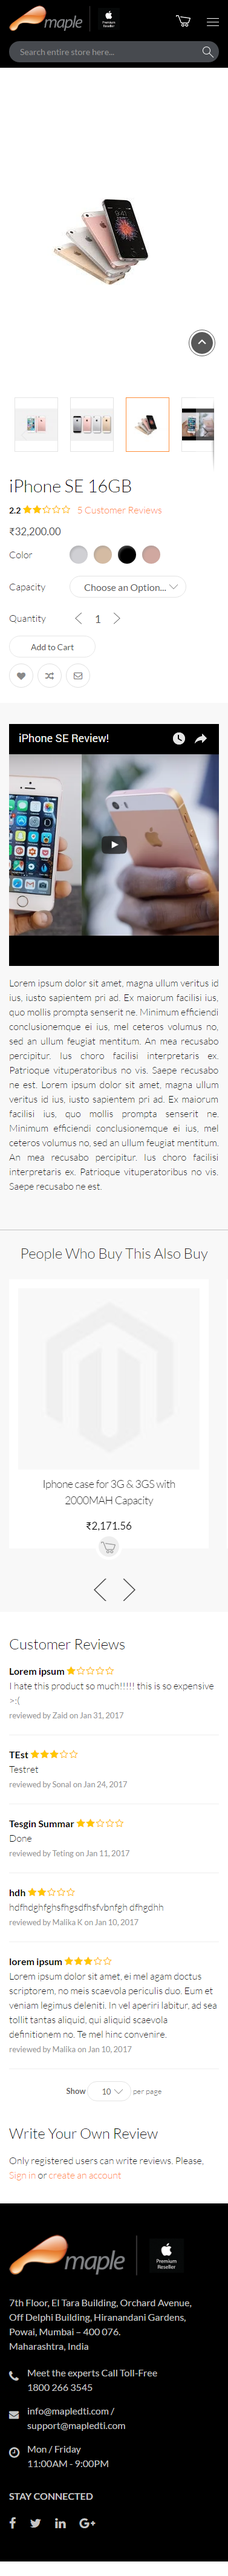
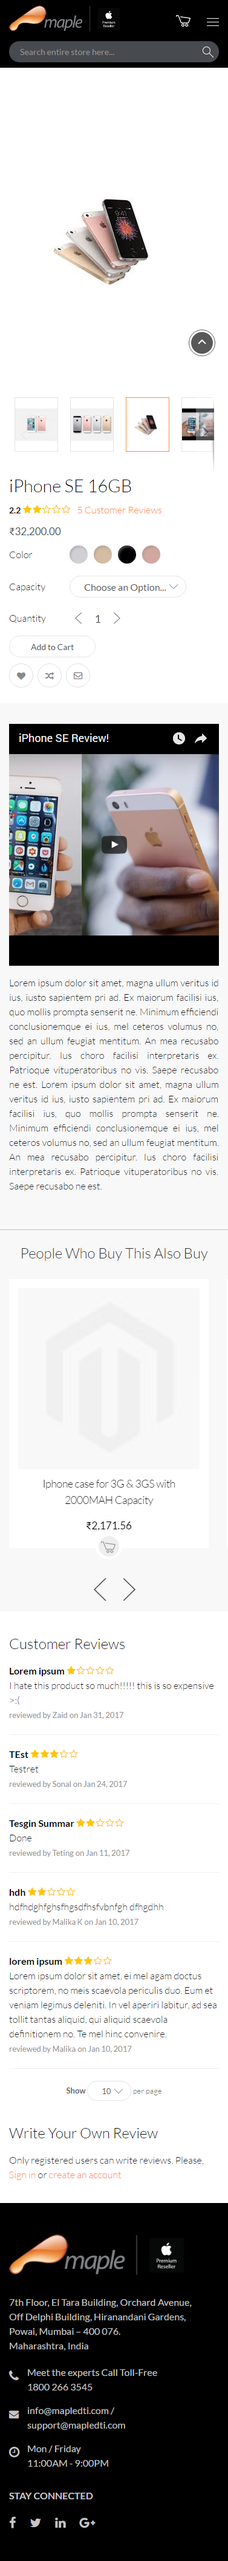
updated images

diff --git a/projects/lovz-me/index.html b/projects/lovz-me/index.html
@@ -42,6 +42,7 @@
                 <div class="page-heading">
                     <h2 class="page-title">Lovz Me</h2>
                     <p>The site isn't live yet, hence the screenshots</p>
+                    <p>(The screenshots might have issues in the footer due to the app from which the screenshot is taken from)</p>
                 </div>
                 <div class="primary">
                     <img src="images/lm-home.png" /><br/>

diff --git a/assets/css/style.css b/assets/css/style.css
@@ -467,9 +467,9 @@ body:not(.home) #content-wrap {
     background: #0b0100;
     width: 100%;
     padding: 10px 15px;
-    -webkit-transform: translate(0, -43px);
-    -ms-transform: translate(0, -43px);
-    transform: translate(0, -43px);
+    -webkit-transform: translate(0, -39px);
+    -ms-transform: translate(0, -39px);
+    transform: translate(0, -39px);
     -webkit-transition: all 0.4s ease;
     transition: all 0.4s ease;
 }
